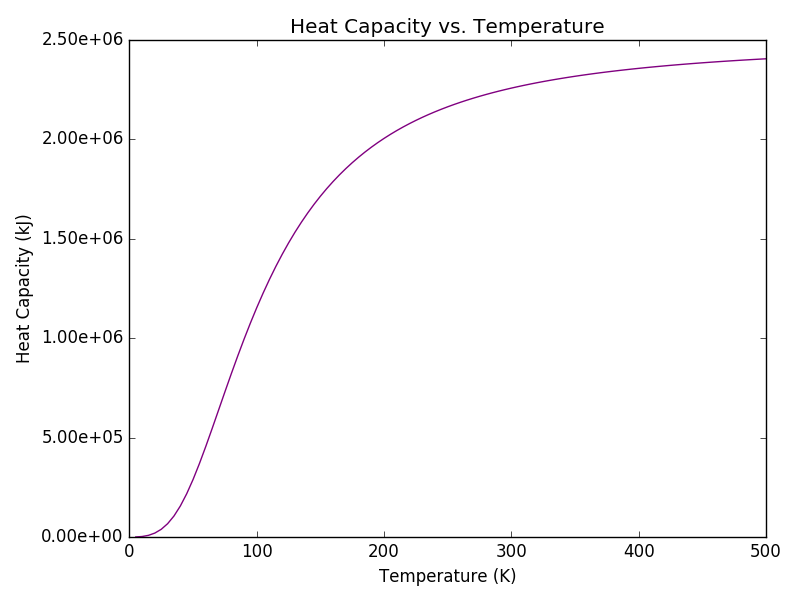
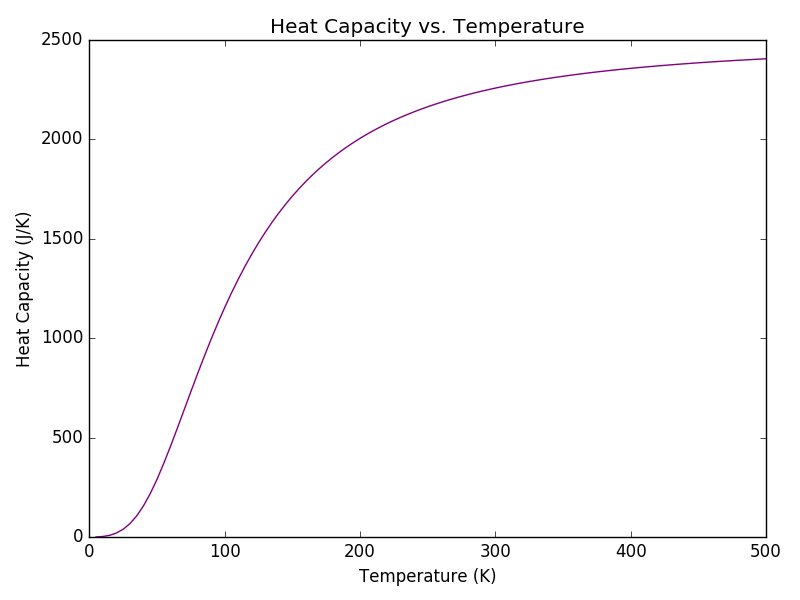
Fixed units

diff --git a/rh_hw3/richstein_hw3_prob3.py b/rh_hw3/richstein_hw3_prob3.py
@@ -30,7 +30,7 @@ from matplotlib.ticker import FormatStrFormatter
 
 rho = 6.022e28  # m^-3
 debye_t = 428  # K
-V = 1000  # cm^3 of solid aluminum
+V = 1e-3  # m^3 of solid aluminum
 # Units on k are J/K (Joules per Kelvin)
 
 
@@ -74,14 +74,14 @@ for tt in range(len(temp_arr)):
 	hc_arr[tt] = cv(temp_arr[tt])
 
 # Convertaing to kJ, just because the numbers are so large
-hc_arr = array(hc_arr) / 1000
+hc_arr = array(hc_arr)
 
 fig, ax = plt.subplots()
 ax.plot(temp_arr, hc_arr, color="purple")
 ax.set_xlabel("Temperature (K)")
-ax.set_ylabel("Heat Capacity (kJ)")
+ax.set_ylabel("Heat Capacity (J/K)")
 ax.set_title("Heat Capacity vs. Temperature")
-ax.yaxis.set_major_formatter(FormatStrFormatter('%.2e'))
+# ax.yaxis.set_major_formatter(FormatStrFormatter('%.2e'))
 
 plt.tight_layout()
 plt.show()
